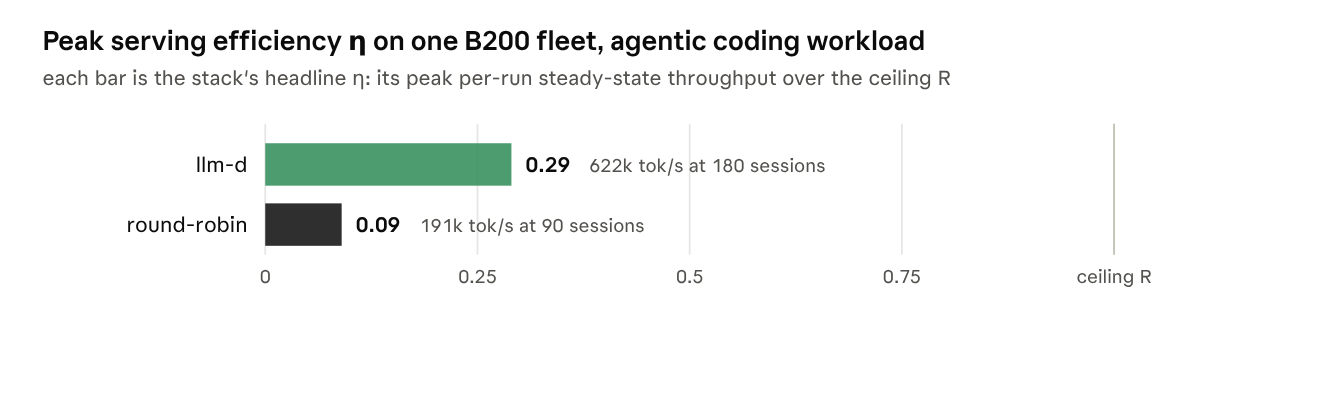
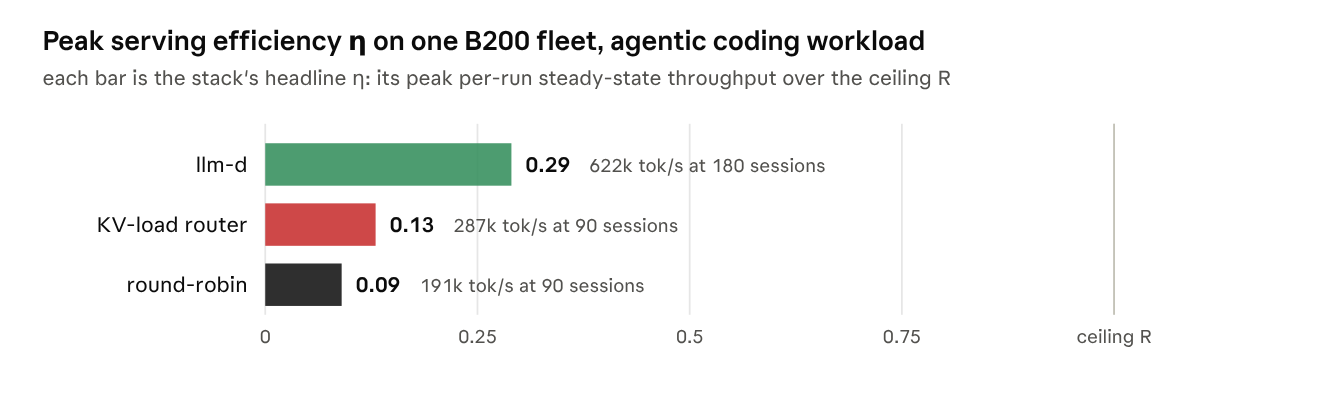
docs(blog): add the KV-load router as a third stack, and the TPU-vs-B200 roofs figure
The third router's three fleet runs (60, 90, 120 sessions) return to every table,
chart and factor split under a neutral name with a description of what it
optimises for; its manifests stay out of the kit. Section 2 opens with the
roofs-only roofline of one 8-accelerator replica on B200 and on TPU7x.

diff --git a/docs/blog/kv-cache-serving-efficiency/reproduce/analysis/ceiling_v3.py b/docs/blog/kv-cache-serving-efficiency/reproduce/analysis/ceiling_v3.py
@@ -34,7 +34,7 @@ print(f"CEILING B: n* {n}, step {t*1e3:.1f} ms, R {Rg/1e3:.1f}k/GPU, {tps/1e3:.0
 for k in (12,16,18,20,22,24,29):
     U_=U; pre=k*U_/O; mem=(c.wread(k+pre)+k*(I+O/2)*b+(pre/TB)*I*b)/Wpk; comp=(k+pre)/Ftok(I)
     print(f"  n={k:2d} memory {mem*1e3:5.1f} ms compute {comp*1e3:5.1f} ms -> {'compute' if comp>mem else 'memory'} binds; fleet {k/max(mem,comp)*(I+O)/O*NREP/1e6:.2f}M")
-H={'llm-d 120':(604,.98),'llm-d 180':(622,.92),'llm-d 240':(570,.90),'llm-d 300':(345,.75),'rr 90':(191,.62),'rr 120':(180,.53)}
+H={'llm-d 120':(604,.98),'llm-d 180':(622,.92),'llm-d 240':(570,.90),'llm-d 300':(345,.75),'KV-load router 60':(253,.76),'KV-load router 90':(287,.74),'KV-load router 120':(271,.67),'rr 90':(191,.62),'rr 120':(180,.53)}
 print('eta (fleet ceiling B):',{k:round(v[0]*1e3/F,2) for k,v in H.items()})
 print('--- split: client * reuse * engine * orchestration = eta (T_ideal at h=0.98)')
 worst=0.0

diff --git a/docs/blog/kv-cache-serving-efficiency/README.md b/docs/blog/kv-cache-serving-efficiency/README.md
@@ -15,11 +15,11 @@ The shortfall from the ceiling splits into four factors whose product is η:
 3. **Engine**: what this engine version costs beyond an ideal one at a steady batch, measured on one replica: a fixed cost per step, and prefill chunks that stall the decodes they ride with.
 4. **Orchestration**: everything else lost at the hit rate the run had, in the layers around the engine: uneven load across replicas, turns arriving in waves, queueing, tier copies in the critical path.
 
-We ran one agentic coding workload on an NVIDIA B200 fleet with a host KV tier, with each stack in its documented default configuration. **llm-d** reached an η of 0.29 and **round-robin** 0.09. These numbers describe this workload, fleet and configuration. They are not a general ranking of the stacks. The prefix hit rate each stack kept explains much of the gap between them. llm-d holds its hit rate at 0.90 or above until HBM fills with the sessions it is decoding, at 240 sessions. Round-robin is already down to 0.62 at 90 sessions, with HBM a quarter full. The framework is for infrastructure engineers building or selecting serving stacks, and for vendors who want standardised performance claims.
+We ran one agentic coding workload on an NVIDIA B200 fleet with a host KV tier, with each stack in its documented default configuration. **llm-d** reached an η of 0.29, a third router we call the KV-load router 0.13, and **round-robin** 0.09. These numbers describe this workload, fleet and configuration. They are not a general ranking of the stacks. The prefix hit rate each stack kept explains much of the gap between them. llm-d holds its hit rate at 0.90 or above until HBM fills with the sessions it is decoding, at 240 sessions. The KV-load router and round-robin are already down to 0.76 and 0.62 at 60 and 90 sessions, with HBM a quarter full. The framework is for infrastructure engineers building or selecting serving stacks, and for vendors who want standardised performance claims.
 
 ![figure](figures/fig0-eta-peaks.png)
 
-*B200 fleet experiment · peak over each stack's load ladder (Section 6) · both stacks in their documented default configuration, untuned*
+*B200 fleet experiment · peak over each stack's load ladder (Section 6) · all three stacks in their documented default configuration, untuned*
 
 One caveat belongs beside the chart. The replay harness kept 86 to 92% of the configured sessions in flight and added idle time between turns. The client factor carries that behaviour. Section 6 gives the numbers.
 
@@ -63,17 +63,21 @@ Every number from Section 2 on refers to this trace.
 
 ## 2. Compute or memory: where a run sits on the roofline
 
+![figure](figures/fig0b-roofline-tpu-vs-gpu.png)
+
+*One replica of Qwen3-Coder-480B-FP8 on 8 x B200 (TP=8) and on 8 x TPU7x (TP=16 across two hosts) · dashed: datasheet · solid: this deployment, by the Appendix A method · both axes log*
+
 An engine serves requests in steps. One step is one forward pass over everything scheduled in it: a chunk of prefill tokens from prompts still being processed, plus one new token for every request that is decoding. A step takes the longer of its compute time and its memory time. This post calls that the step-time bound: a roofline applied to one step. The next paragraph says why a step waits on one or the other.
 
 In every step a GPU does two things. It reads bytes from HBM, and it does arithmetic on them. A decode step for a long context reads a lot: the weights and every resident context's KV, hundreds of gigabytes. It computes little, one token per request. It waits on memory. A prefill step computes a lot per byte it reads. It waits on compute. The roofline chart is the standard picture of which of the two a step waited on. The rest of this section applies it to a serving fleet, where the hit rate decides how much prefill each step carries.
 
 ![figure](figures/fig1-measured-roofline.png)
 
-*Section 6 runs on the B200 fleet · FLOPs per token are 2N plus attention over the resident context, bytes from the model shape and sampled engine counters (Appendix B.2); tokens restored from the host tier are not counted as recomputed · roofs for this deployment: 1.22 PFLOP/s per GPU, the calibrated prefill rate at this workload's context with attention counted (27% of the 4.5 dense FP8 datasheet peak), and the datasheet 8 TB/s, which the steady-batch ladder of Appendix A reaches · 6 runs, 2 stacks*
+*Section 6 runs on the B200 fleet · FLOPs per token are 2N plus attention over the resident context, bytes from the model shape and sampled engine counters (Appendix B.2); tokens restored from the host tier are not counted as recomputed · roofs for this deployment: 1.22 PFLOP/s per GPU, the calibrated prefill rate at this workload's context with attention counted (27% of the 4.5 dense FP8 datasheet peak), and the datasheet 8 TB/s, which the steady-batch ladder of Appendix A reaches · 9 runs, 3 stacks*
 
 A roofline chart places a run by two numbers. The x axis is its arithmetic intensity: the FLOPs it performed per byte read from HBM. The y axis is the FLOP/s it achieved. The hardware caps the run from two sides. The compute roof is flat, at the peak FLOP/s. The memory roof slopes. A step that does few FLOPs per byte it reads is limited by HBM, and the most FLOP/s it can reach is the bandwidth times its arithmetic intensity. That limit rises with arithmetic intensity until it meets the compute roof. The two roofs meet at the ridge. Left of the ridge, a step spends longer reading memory than computing. Right of it, longer computing.
 
-The figure places the six fleet runs of Section 6 on this chart. The dashed roof is the B200 datasheet. The solid roof is this deployment's. Its compute roof is the prefill rate calibrated on one replica. Its memory roof is the datasheet bandwidth, which a steady decode batch of eight or more reaches (Appendix A). The two roofs meet at about 150 FLOP/B.
+The figure places the nine fleet runs of Section 6 on this chart. The dashed roof is the B200 datasheet. The solid roof is this deployment's. Its compute roof is the prefill rate calibrated on one replica. Its memory roof is the datasheet bandwidth, which a steady decode batch of eight or more reaches (Appendix A). The two roofs meet at about 150 FLOP/B.
 
 The hit rate decides where a run lands. At a 0.98 hit rate the fleet sits on the memory roof, because nearly all of its steps are decode steps. As the hit rate falls, the same workload moves right and up, across the ridge and onto the compute roof. The GPUs get busier and the useful token rate gets lower. The added compute is recomputing contexts the stack failed to reuse.
 
@@ -97,7 +101,7 @@ $$
 
 For the agentic workload (L = 117k, U = 7.3k, O = 386), U/O is 19. The threshold depends on the batch, because the weight read is shared across it: about 24 at a batch of 12 and about 15 at the capacity cap of 29 sequences, [derived in Appendix B.1](https://github.com/kaushikmitr/llm-d/blob/kv-cache-serving-efficiency-blog/docs/blog/kv-cache-serving-efficiency/README.md#b1-the-step-time-bound). Memory dominates up to a batch of about 20 and compute above it. The ceiling is reached at a batch of 20 or more (Section 3), so at its ceiling the workload is compute-bound, by a margin of 10 to 15%. Capacity is not in the rule. It caps n at 29 and enters the ceiling as a separate condition.
 
-The figure draws the rule for this deployment. For each context length and U/O it shows the smallest batch at which compute dominates. Grey marks where memory dominates at every batch the HBM can hold. llm-d at 120 sessions sits in the grey: with a 0.98 hit rate, memory dominates at any batch. Every other run sits in the blue. For llm-d at 180 and 240 sessions compute takes over once nine to eleven requests share a step, and those runs had twelve and eighteen decoding. For round-robin and llm-d at 300 sessions it takes over at two or three, and those runs had more than that.
+The figure draws the rule for this deployment. For each context length and U/O it shows the smallest batch at which compute dominates. Grey marks where memory dominates at every batch the HBM can hold. llm-d at 120 sessions sits in the grey: with a 0.98 hit rate, memory dominates at any batch. Every other run sits in the blue. For llm-d at 180 and 240 sessions compute takes over once nine to eleven requests share a step, and those runs had twelve and eighteen decoding. For the KV-load router, round-robin and llm-d at 300 sessions it takes over at two or three, and those runs had more than that.
 
 ![figure](figures/fig2-wall-map.png)
 
@@ -131,9 +135,9 @@ At the ceiling, about 36 sessions per replica are paused in a tool call at any m
 
 ![figure](figures/fig4c-ideal-throughput-vs-batch.png)
 
-*blue: ideal curve from the step-time bound of Appendix B at h = ρ for the B200 fleet of Appendix A; grey: the measured engine at a steady batch and the same hit rate, from the single-replica ladder of Appendix A; points: the six runs of Section 6, at the mean number of requests decoding per replica over the steady window*
+*blue: ideal curve from the step-time bound of Appendix B at h = ρ for the B200 fleet of Appendix A; grey: the measured engine at a steady batch and the same hit rate, from the single-replica ladder of Appendix A; points: the nine runs of Section 6, at the mean number of requests decoding per replica over the steady window*
 
-The measured runs show how far each stack climbed. The grey line is what this vLLM version reaches at a steady batch with the ideal hit rate, measured on one replica (Appendix A). It sits at about half of R across the range, for two reasons the ladder measures: a fixed cost of about 7 ms per step, and prefill chunks that stall the decode steps they ride in rather than overlapping them. llm-d at 120 sessions sits on the grey line with six sequences decoding. At 180 and 240 it ran twelve and eighteen but fell below it, as turns arrived in waves, host-tier copies lengthened steps and then preemption began. Round-robin never passes eleven decoding. Its lost reuse turns added sessions into recompute. Section 4 splits these gaps into their factors.
+The measured runs show how far each stack climbed. The grey line is what this vLLM version reaches at a steady batch with the ideal hit rate, measured on one replica (Appendix A). It sits at about half of R across the range, for two reasons the ladder measures: a fixed cost of about 7 ms per step, and prefill chunks that stall the decode steps they ride in rather than overlapping them. llm-d at 120 sessions sits on the grey line with six sequences decoding. At 180 and 240 it ran twelve and eighteen but fell below it, as turns arrived in waves, host-tier copies lengthened steps and then preemption began. The KV-load router and round-robin never pass twelve decoding. Their lost reuse turns added sessions into recompute. Section 4 splits these gaps into their factors.
 
 ## 4. Where the shortfall goes
 
@@ -152,23 +156,23 @@ An engine that loses nothing would see each session cycle in Z + T\_ideal. The m
 
 The ideal uses 0.98 rather than ρ because of how the replay runs. It starts every conversation at once, so the first turns, whose whole prompt is new, fall outside the steady window. A live service would see them at ρ's rate, one turn in twenty. The ceiling therefore keeps ρ. The runs' hit rates were measured in the window, so the ideal they are held to is the oracle over that window. Held to ρ instead, llm-d at 120 sessions, with h = 0.98, would beat the ideal. The choice does not touch R, which keeps ρ. It would matter if it did. With compute binding, R scales with the tokens served per token the oracle still prefills, and a ceiling at 0.98 would be 2.8 times the one at ρ.
 
-Two runs of Section 6 show how the factors read. llm-d at 120 sessions: client 0.35, reuse 1.00, engine 0.93, orchestration 0.88; η 0.28. The client asked for a third of the ceiling. The stack recomputed nothing. The engine lost 7% of what was asked and the orchestration a further 12%. Round-robin at 90 sessions: client 0.20, reuse 0.70, engine 0.87, orchestration 0.73; η 0.09. The client asked for a fifth of the ceiling. Recompute took 30% of that. The engine lost a further 13% and the orchestration 27%.
+Three runs of Section 6 show how the factors read. llm-d at 120 sessions: client 0.35, reuse 1.00, engine 0.93, orchestration 0.88; η 0.28. The client asked for a third of the ceiling. The stack recomputed nothing. The engine lost 7% of what was asked and the orchestration a further 12%. Round-robin at 90 sessions: client 0.20, reuse 0.70, engine 0.87, orchestration 0.73; η 0.09. The client asked for a fifth of the ceiling. Recompute took 30% of that. The engine lost a further 13% and the orchestration 27%. The KV-load router at 90 sessions: client 0.25, reuse 0.78, engine 0.84, orchestration 0.84; η 0.13. The client asked for a quarter of the ceiling. Recompute took 22% of that. The engine and the orchestration each lost a further 16%.
 
-The factors multiply to η exactly. The client term is S(I + O)/(Z + T\_ideal) over R, and the other three telescope from Z + T\_ideal to Z + T. For the six runs the product matches the measured η to within 0.03%. The residual is rounding in the recorded throughput.
+The factors multiply to η exactly. The client term is S(I + O)/(Z + T\_ideal) over R, and the other three telescope from Z + T\_ideal to Z + T. For the nine runs the product matches the measured η to within 0.03%. The residual is rounding in the recorded throughput.
 
 The factors are not independent causes. Each is a ratio of cycle times under one chosen ideal engine. The split is an attribution under that model, not a unique causal decomposition. A loss can move between reuse and the engine and orchestration factors where the idealisation misses. The note on small batches below gives the mechanism.
 
 ![figure](figures/fig3c-ceiling-split.png)
 
-*six runs of Section 6 · each bar is client × R, what an engine that loses nothing would serve to that run's sessions; its parts are the achieved throughput (η × R), the orchestration loss, the engine loss and the recompute loss (client × (1 − reuse) × R); the line is the one fleet ceiling R of Section 3 · Z and T from the per-request records over the steady window; T_ideal from the step-time bound at the run's batch at the window oracle's 0.98, T_h the same at the run's h, T_eng from the measured engine ladder of Appendix A at the run's batch and h*
+*nine runs of Section 6 · each bar is client × R, what an engine that loses nothing would serve to that run's sessions; its parts are the achieved throughput (η × R), the orchestration loss, the engine loss and the recompute loss (client × (1 − reuse) × R); the line is the one fleet ceiling R of Section 3 · Z and T from the per-request records over the steady window; T_ideal from the step-time bound at the run's batch at the window oracle's 0.98, T_h the same at the run's h, T_eng from the measured engine ladder of Appendix A at the run's batch and h*
 
-Reading down a stack's rows in the figure, more sessions lengthen the bar. What the added length turns into is the diagnosis. For llm-d it is throughput until HBM fills, then engine and orchestration loss. For round-robin it is recompute from the first step. The extra sessions are recomputed rather than served. That is a routing limit, not a load limit.
+Reading down a stack's rows in the figure, more sessions lengthen the bar. What the added length turns into is the diagnosis. For llm-d it is throughput until HBM fills, then engine and orchestration loss. For the KV-load router and round-robin it is recompute from the first step. The extra sessions are recomputed rather than served. That is a routing limit, not a load limit.
 
 The engine factor is measured, not modelled. Appendix A's ladder gives this vLLM version's step at each batch with no prefill in flight, and its step when a full 8k prefill chunk rides along. Two costs separate it from the ideal engine. One is a fixed cost of about 7 ms per step, which at small batches is most of the step: at a batch of one the ideal step is 2 ms and the measured one 7.5 ms. The other is chunk steps that do not overlap with decode steps: at 116k context a step carrying an 8k chunk takes 364 ms, its full prefill time, while the decodes in it wait. Both are properties of the engine version, not of the stack around it. They cost 7 to 21% in the runs of Section 6.
 
 The orchestration factor is a residual. It holds what the layers around the engine did with the hit rate they had: how turns were admitted and batched, when tier copies ran, how long requests waited. Its largest named content is the batch swing. T\_eng is computed at the run's mean batch. Throughput per step grows with the batch, but more slowly as the batch gets larger, so a batch that swings above and below its mean delivers less than a steady batch at that mean. For llm-d at 180 and 240 sessions that difference is about 6% of the ideal throughput. The orchestration factor there is 0.73 and 0.70, so the swing is about a fifth of the loss. The rest is host-tier copies in the critical path and requests waiting for KV blocks, which the counters of Section 6 show rising with the sessions. These are costs of turns arriving in waves, which an admission gate could smooth, not faults of the engine.
 
-One artefact of the ideal remains, at small batches. The step-time bound spreads a turn's prefill evenly across its decode steps. At a small batch that spread-out prefill fits under the step's memory time, so the ideal engine charges little for it. Recompute that the real engine did pay for then shows up in the engine and orchestration factors rather than in reuse. Round-robin at 90 sessions shows it. Its hit rate is 0.62, below llm-d at 300 sessions, yet its reuse factor is 0.70 against 0.57, and engine times orchestration 0.64. Low engine and orchestration factors at a small batch should therefore be read with the hit rate beside it. Section 7 has the row.
+One artefact of the ideal remains, at small batches. The step-time bound spreads a turn's prefill evenly across its decode steps. At a small batch that spread-out prefill fits under the step's memory time, so the ideal engine charges little for it. Recompute that the real engine did pay for then shows up in the engine and orchestration factors rather than in reuse. Round-robin at 90 sessions shows it. Its hit rate is 0.62, below llm-d at 300 sessions, yet its reuse factor is 0.70 against 0.57, and engine times orchestration 0.64. The KV-load router at 60 sessions is the same case: hit rate 0.76, yet a reuse factor of 0.89 and engine times orchestration 0.71. Low engine and orchestration factors at a small batch should therefore be read with the hit rate beside it. Section 7 has the row.
 
 Retention is not one of the factors. It sets where the peak falls: the number of sessions the system can hold before it starts evicting. It is reported beside η as a capacity.
 
@@ -182,18 +186,19 @@ A turn's prompt KV is in one of three places. It is on the replica that will ser
 
 A stack has three moves to make the first case the common one. It can route the request to the replica that holds its prefix. It can move the KV: to a host tier when its session pauses, or from a peer when it resumes elsewhere. It can move the compute, running prefill on a separate pool and shipping the KV once.
 
-Each move has a price, in transfer time or in load concentrated on one replica. A router's job is to pay it only when it beats recompute. Eviction is not a move. It is what happens when every tier is full, and the evicted KV's next use pays a full recompute. The two stacks of Section 6 differ in the first move. llm-d routes each turn toward the replica its index believes holds the prefix. Round-robin keeps no index and routes blind. Both move KV to the host tier when a session pauses, and neither moves compute.
+Each move has a price, in transfer time or in load concentrated on one replica. A router's job is to pay it only when it beats recompute. Eviction is not a move. It is what happens when every tier is full, and the evicted KV's next use pays a full recompute. The three stacks of Section 6 differ in the first move. llm-d routes each turn toward the replica its index believes holds the prefix. The KV-load router scores replicas by their projected KV-block load, with prefix overlap as a credit against the prefill term, and picks the lowest. Round-robin keeps no index and routes blind. All three move KV to the host tier when a session pauses, and none moves compute.
 
-## 6. Empirical evaluation: two stacks on a B200 fleet
+## 6. Empirical evaluation: three stacks on a B200 fleet
 
 ### Setup
 
-Two stacks were evaluated on one six-replica NVIDIA B200 fleet running the agentic coding workload of the [llm-d agentic-serving guide](https://github.com/llm-d/llm-d/tree/9e9a4d2b4fe6ceebd0eae6ef64de2f21f69f342a/guides/agentic-serving). The model is Qwen3-Coder-480B-A35B-FP8 at TP=8 with expert parallelism, on vLLM v0.28.0. Both stacks used the same six nodes, engine flags, KV allocation (3,403,712 tokens in HBM per replica), trace and seeds. Every replica also had a 1.61 TB host KV tier (vLLM's OffloadingConnector, write-through, 6.19M tokens). The tier was registered with the GPUs in 64 GiB pieces through a backport of vLLM PR #51081, because a single registration of a tier above 512 GiB fails on this platform.
+Three stacks were evaluated on one six-replica NVIDIA B200 fleet running the agentic coding workload of the [llm-d agentic-serving guide](https://github.com/llm-d/llm-d/tree/9e9a4d2b4fe6ceebd0eae6ef64de2f21f69f342a/guides/agentic-serving). The model is Qwen3-Coder-480B-A35B-FP8 at TP=8 with expert parallelism, on vLLM v0.28.0. All three stacks used the same six nodes, engine flags, KV allocation (3,403,712 tokens in HBM per replica), trace and seeds. Every replica also had a 1.61 TB host KV tier (vLLM's OffloadingConnector, write-through, 6.19M tokens). The tier was registered with the GPUs in 64 GiB pieces through a backport of vLLM PR #51081, because a single registration of a tier above 512 GiB fails on this platform.
 
 1. **llm-d**, in the default configuration of its agentic-serving guide: the approximate prefix index (hashed prompt prefixes scored against each replica's recent history), a prefill-rate affinity filter calibrated to the measured 37,217 tokens per second, and the token-load scorer. The index was set to 193,500 blocks per replica. Its tokenizer-free estimate counts 4 bytes as one token, which is about 1.5 real tokens for this code-heavy trace. That setting covers about 128k engine blocks: more than the host tier alone, less than both tiers together. Its precise index (KV events from each engine) was not used.
-2. **Round-robin**, a plain Kubernetes Service, as the baseline.
+2. **KV-load router**, a third-party router reported here with its maintainers' agreement and without naming it. It is a cost-based router: each request goes to the worker with the lowest projected KV-block load, counting the prefill blocks the request would add, less a credit for prefix overlap, plus the worker's active decode blocks. Selection is deterministic at its default weights, with 64-token blocks and the engines' KV events, host tier included, as its documentation requires. Its manifests are not in the kit.
+3. **Round-robin**, a plain Kubernetes Service, as the baseline.
 
-Each stack ran an ascending ladder of session counts until its throughput had fallen: llm-d at 120, 180, 240 and 300 sessions and round-robin at 90 and 120. Throughput is steady-state. η is taken at each stack's peak over its ladder (Section 3). The engines' counters were sampled every 15 s: uncached prefill tokens, tokens restored from the host tier, generated tokens, steps, resident and waiting requests, KV occupancy and preemptions. Achieved FLOP/s, HBM traffic and arithmetic intensity follow from them and the model shape. Every level ran on all six replicas, checked from each replica's own counters.
+Each stack ran an ascending ladder of session counts until its throughput had fallen: llm-d at 120, 180, 240 and 300 sessions, the KV-load router at 60, 90 and 120, and round-robin at 90 and 120. Throughput is steady-state. η is taken at each stack's peak over its ladder (Section 3). The engines' counters were sampled every 15 s: uncached prefill tokens, tokens restored from the host tier, generated tokens, steps, resident and waiting requests, KV occupancy and preemptions. Achieved FLOP/s, HBM traffic and arithmetic intensity follow from them and the model shape. Every level ran on all six replicas, checked from each replica's own counters.
 
 The trace is the one described in Section 1, replayed with inference-perf's conversation replay.
 
@@ -205,6 +210,9 @@ What each level delivered over the steady window, from the per-request records a
 | llm-d | 180 | 166 | 3,195 (4.6) | 134k | 387 | 12.8 s | 3.7 s | 22.4 s | 11.9 + 4.2 |
 | llm-d | 240 | 217 | 4,284 (4.4) | 129k | 406 | 13.4 s | 6.7 s | 34.3 s | 18.1 + 6.3 |
 | llm-d | 300 | 272 | 5,423 (2.5) | 140k | 390 | 13.5 s | 13.2 s | 95.0 s | 20.9 + 19.1 |
+| KV-load router | 60 | 54 | 1,069 (1.9) | 135k | 419 | 13.2 s | 3.6 s | 15.2 s | 4.0 + 0.4 |
+| KV-load router | 90 | 81 | 1,626 (2.4) | 118k | 400 | 12.2 s | 3.8 s | 21.1 s | 7.5 + 0.8 |
+| KV-load router | 120 | 107 | 2,140 (2.1) | 129k | 392 | 13.7 s | 7.3 s | 36.2 s | 11.4 + 1.6 |
 | round-robin Service | 90 | 79 | 1,507 (1.7) | 114k | 394 | 12.5 s | 7.2 s | 34.0 s | 7.7 + 1.7 |
 | round-robin Service | 120 | 103 | 1,999 (1.4) | 125k | 400 | 14.1 s | 13.5 s | 55.9 s | 10.8 + 3.2 |
 
@@ -218,6 +226,9 @@ A session is live while it has a turn outstanding or is in its tool pause. The r
 | llm-d | 180 | 622k | **0.29** | 0.92 |
 | llm-d | 240 | 570k | 0.27 | 0.90 |
 | llm-d | 300 | 345k | 0.16 | 0.75 |
+| KV-load router | 60 | 253k | 0.12 | 0.76 |
+| KV-load router | 90 | 287k | **0.13** | 0.74 |
+| KV-load router | 120 | 271k | 0.13 | 0.67 |
 | round-robin Service | 90 | 191k | **0.09** | 0.62 |
 | round-robin Service | 120 | 180k | 0.08 | 0.53 |
 
@@ -225,17 +236,17 @@ Bold marks each stack's peak, the level its headline η is taken from.
 
 ![figure](figures/fig4-eta-vs-hit-rate.png)
 
-*B200 fleet experiment · inference-perf v0.7.0 conversation replay, 32 workers · engine counters sampled every 15 s; hit rate counts HBM and host-tier hits · 6 runs, 2 stacks*
+*B200 fleet experiment · inference-perf v0.7.0 conversation replay, 32 workers · engine counters sampled every 15 s; hit rate counts HBM and host-tier hits · 9 runs, 3 stacks*
 
 ![figure](figures/fig4b-throughput-and-hbm-vs-sessions.png)
 
-*B200 fleet experiment · steady-window throughput, mean HBM KV occupancy per replica and preemptions from engine counters · 6 runs, 2 stacks*
+*B200 fleet experiment · steady-window throughput, mean HBM KV occupancy per replica and preemptions from engine counters · 9 runs, 3 stacks*
 
 ### Key takeaways
 
 - **The knee is HBM capacity for the sessions being decoded.** llm-d keeps the hit rate at the workload's level up to 240 sessions, with the host tier supplying up to two thirds of the prompt tokens. Past 180 sessions, the KV of the requests decoding at once fills HBM and the engine starts preempting. HBM used in the tables is the mean of the engine's KV-block gauge over the window, and the gauge swings. At 240 sessions the mean is 65%, but the 95th percentile on every replica is 96% or more and the peak is 100%. The preemptions fall at those peaks. A preempted request is restored from the host tier rather than recomputed. But it waits for a slot and for the copy, so turns get longer and throughput falls while the hit rate holds.
-- **The hit rate explains much of the throughput gap in these runs.** Round-robin kept 0.62 to 0.53, against the 0.98 an oracle reaches over the same window. It peaks with HBM about a quarter full and no preemptions. Its shortfall starts with routing: a turn lands on a replica that holds none of its context in either tier, and the prompt is recomputed. No stack was tuned beyond llm-d's documented prefill-rate calibration.
-- **The rule and the roofline agree.** The rule of Section 2.1, applied to each run's measured hit rate, context and batch size, puts all six runs on the same side of the ridge (about 150 FLOP/B) as their arithmetic intensity. llm-d at 120 sessions, with U/O of 6 against a threshold of 37 at its batch of six, is memory-bound by both. The other five are compute-bound by both. The closest call is llm-d at 180 sessions: U/O of 28 against a threshold of 26, at 172 FLOP/B. Both use the same per-token costs. This is a consistency check, not an independent measurement.
+- **The hit rate explains much of the throughput gap in these runs.** The KV-load router kept 0.76 to 0.67 and round-robin 0.62 to 0.53, against the 0.98 an oracle reaches over the same window. Both peak with HBM about a quarter full and no preemptions. Their shortfall starts with routing: a turn lands on a replica that holds none of its context in either tier, and the prompt is recomputed. The KV-load router ran with its default routing weights and stock frontend, as a user following its documentation would deploy it. No stack was tuned beyond llm-d's documented prefill-rate calibration.
+- **The rule and the roofline agree.** The rule of Section 2.1, applied to each run's measured hit rate, context and batch size, puts all nine runs on the same side of the ridge (about 150 FLOP/B) as their arithmetic intensity. llm-d at 120 sessions, with U/O of 6 against a threshold of 37 at its batch of six, is memory-bound by both. The other eight are compute-bound by both. The closest call is llm-d at 180 sessions: U/O of 28 against a threshold of 26, at 172 FLOP/B. Both use the same per-token costs. This is a consistency check, not an independent measurement.
 
 ### Detailed counters
 
@@ -247,6 +258,9 @@ The counters behind the takeaways, per run over the steady window. HBM used is t
 | llm-d | 180 | 1.5 s | 0.22 | 43% | 0 | 33 | 10 | 172 |
 | llm-d | 240 | 2.1 s | 0.66 | 65% | 2.2 | 27 | 11 | 239 |
 | llm-d | 300 | 36 s | 0.73 | 85% | 6.6 | 15 | 20 | 737 |
+| KV-load router | 60 | 1.6 s | 0.08 | 14% | 0 | 36 | 13 | 200 |
+| KV-load router | 90 | 2.1 s | 0.18 | 23% | 0 | 27 | 14 | 283 |
+| KV-load router | 120 | 3.3 s | 0.21 | 40% | 0 | 17 | 18 | 600 |
 | round-robin Service | 90 | 4.1 s | 0.13 | 26% | 0 | 27 | 15 | 303 |
 | round-robin Service | 120 | 10.2 s | 0.16 | 41% | 0 | 19 | 19 | 549 |
 
@@ -269,7 +283,7 @@ The factor below one says where the loss is. The counters recorded in the sweep 
 | Client | any | any | any | any | any | Sessions idle beyond their tool pause, or too few sessions offered | Mostly the load generator; fix it before concluding anything about the stack |
 | Reuse | below ρ from the lightest load | not full | none | any | any | Routing: turns land on replicas that do not hold their context, or the index does not see a tier | The index and the affinity rule, before buying memory |
 | Reuse | near ρ at light load, falls as sessions are added | filling | any | any | any | Retention: paused sessions' KV is evicted | A host tier, or fewer sessions per replica |
-| Engine and orchestration | below ρ | not full | none | few | above | Recompute at a small batch: the step-time bound spreads prefill under the memory time, so the loss lands in the engine and orchestration factors rather than reuse (round-robin at 90 sessions, Section 4) | Treat it as a reuse loss: the index and the affinity rule |
+| Engine and orchestration | below ρ | not full | none | few | above | Recompute at a small batch: the step-time bound spreads prefill under the memory time, so the loss lands in the engine and orchestration factors rather than reuse (the KV-load router at 60 sessions and round-robin at 90, Section 4) | Treat it as a reuse loss: the index and the affinity rule |
 | Engine | any | any | any | any | at the measured engine's step | The engine version itself: a fixed cost per step and prefill chunks that stall the decodes they ride with (Appendix A) | Chunk size, or a newer engine; not the stack around it |
 | Orchestration | near ρ | near full | yes | yes | above the measured engine's step | Capacity: the decoding sessions' KV fills HBM | Fewer KV bytes per token, shorter contexts, a tier for everything not decoding |
 | Orchestration | near ρ | not full | none | yes | above the measured engine's step | Scheduling: turns arrive in waves, or tier copies sit in the critical path | Admission, asynchronous copies |
@@ -289,7 +303,7 @@ The ceiling is a first-order bound on purpose. It keeps the terms that decide wh
 | HBM bandwidth taken at the datasheet rate | Too high where the engine streams below it | None above a batch of eight: the ladder of Appendix A reaches 64 TB/s there. Below eight a fixed step cost dominates, and that cost is charged to the engine factor |
 | KV of paused sessions assumed held outside HBM at no cost | Too high for a fleet with HBM alone; right once a host tier holds them, as on this fleet | First-order for llm-d's knee. With HBM alone the fleet would stop at 7 decoding per replica, 0.55 of R. The host tier holding the paused sessions is what lets llm-d run 18 and the ceiling assume 20 or more. |
 | A steady batch below the capacity cap; the real batch swings as turns arrive in waves (the replay advances conversations in lockstep) | Too high by the headroom an engine must keep below the cap to avoid preempting at the peaks | Sets llm-d's knee: at 240 sessions the running count averages 18 per replica but reaches 28 at the 95th percentile and 40 at the peak, 29 contexts fill the allocation, and the preemptions fall at the peaks |
-| First turns are charged at the workload's rate, ρ = 0.94; the steady window the runs are measured in holds almost none, because the replay starts every conversation at once | Nothing to R. It flatters the measured side: in the window the runs recompute less than a live service would, so η reads slightly high | Small at llm-d's batch, where memory sets the ideal step; larger at the small batches of round-robin |
+| First turns are charged at the workload's rate, ρ = 0.94; the steady window the runs are measured in holds almost none, because the replay starts every conversation at once | Nothing to R. It flatters the measured side: in the window the runs recompute less than a live service would, so η reads slightly high | Small at llm-d's batch, where memory sets the ideal step; larger at the small batches of the KV-load router and round-robin |
 
 None of these changes the order of the stacks or the hit-rate finding. They limit how far the 0.29 could move.
 
@@ -297,7 +311,7 @@ None of these changes the order of the stacks or the hit-rate finding. They limi
 
 The roofline framework reduces serving evaluation to one ratio, η. It splits the shortfall into four factors that each name a lever: the load offered, reuse, the engine, and the orchestration around it.
 
-Three claims in this post have different standing. Observed: on the B200 fleet measured here, llm-d reached 0.29 and round-robin 0.09. Explained: the factors attribute much of that gap to the prefix hit rate each stack kept, under the documented configurations. Proposed: the same procedure diagnoses other workloads and deployments. The first two rest on the runs of Section 6. The third rests on applying it elsewhere. The reproduction kit is there for that.
+Three claims in this post have different standing. Observed: on the B200 fleet measured here, llm-d reached 0.29, the KV-load router 0.13 and round-robin 0.09. Explained: the factors attribute much of that gap to the prefix hit rate each stack kept, under the documented configurations. Proposed: the same procedure diagnoses other workloads and deployments. The first two rest on the runs of Section 6. The third rests on applying it elsewhere. The reproduction kit is there for that.
 
 ## References
 
@@ -340,7 +354,7 @@ F = α\_F F\_peak and W = α\_W W\_peak. The two efficiency factors are the only
 
 The roofs of Section 2 are these numbers: the prefill rate at a 128k context, 22,794 tokens per second, converted to FLOP/s, and the datasheet's 8 TB/s per GPU, which the ladder below shows the engine reaching. The compute roof is evaluated near the runs' mean prompt length (114k to 140k tokens). Prompts range from about 34k at p10 to 251k at p99, and per-token prefill slows as context grows. A roof weighted by the actual mix would therefore sit a few percent lower.
 
-The B200 deployment the comparison in Section 6 ran on was calibrated on 11 October 2026: one replica of Qwen3-Coder-480B-A35B-FP8 at TP=8 with expert parallelism, with the same flags as the fleet (8k chunk, 64 sequences, 0.9 memory utilisation, 64-token blocks), on 8 × B200 with vLLM v0.28.0. That is the engine both stacks ran.
+The B200 deployment the comparison in Section 6 ran on was calibrated on 11 October 2026: one replica of Qwen3-Coder-480B-A35B-FP8 at TP=8 with expert parallelism, with the same flags as the fleet (8k chunk, 64 sequences, 0.9 memory utilisation, 64-token blocks), on 8 × B200 with vLLM v0.28.0. That is the engine all three stacks ran.
 
 The decode ladder below was run on 16 November 2026 on one replica of the same configuration and engine version. Its single-decode steps at 1k and 117k context reproduced the October values within 2%.
 
